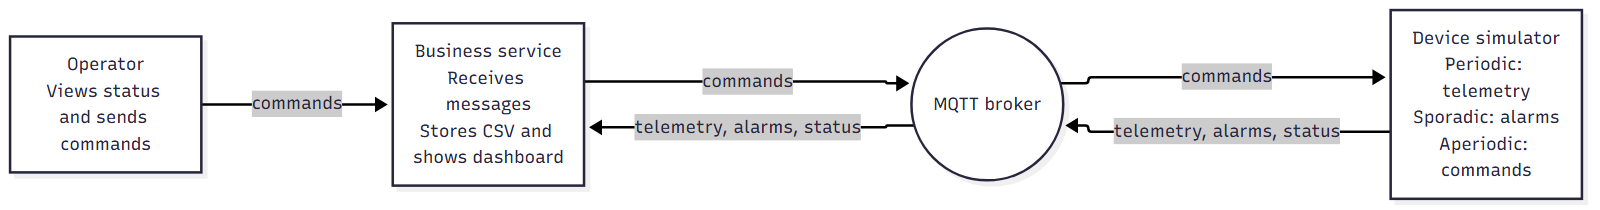
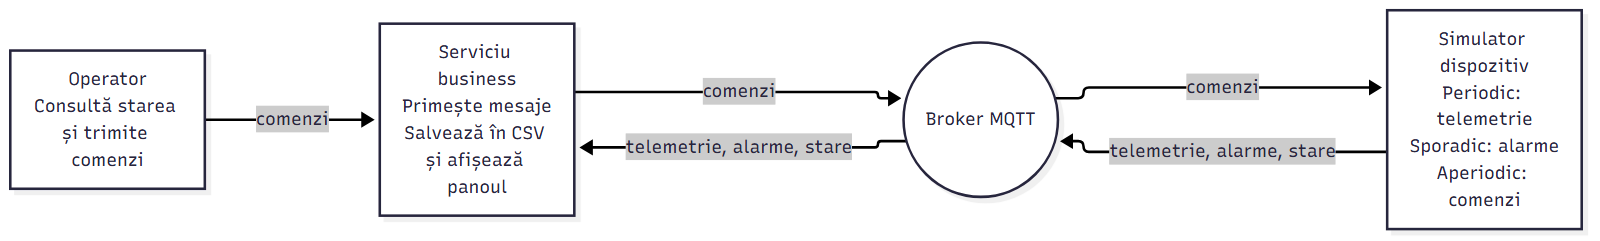
language ro

diff --git a/tema-01-iot-mqtt/start/business-service/src/main/java/ssatr/service/MessageProcessor.java b/tema-01-iot-mqtt/start/business-service/src/main/java/ssatr/service/MessageProcessor.java
@@ -42,7 +42,7 @@ public class MessageProcessor implements Runnable {
                 try {
                     process(message);
                 } catch (IllegalArgumentException e) {
-                    System.out.printf("[invalid %s message] %s%n", kind, message);
+                    System.out.printf("[mesaj %s invalid] %s%n", kind, message);
                 }
             } catch (InterruptedException e) {
                 Thread.currentThread().interrupt();
@@ -79,7 +79,7 @@ public class MessageProcessor implements Runnable {
         parseNumber(fields[2], "temperature");
         parseNumber(fields[3], "threshold");
         dashboard.updateAlarm(deviceId, timestamp);
-        System.out.printf("[ALARM] %s%n", message);
+        System.out.printf("[ALARMĂ] %s%n", message);
     }
 
     private void processStatus(String[] fields, String deviceId, String message) {
@@ -89,7 +89,7 @@ public class MessageProcessor implements Runnable {
             throw new IllegalArgumentException("Missing status text");
         }
         dashboard.updateStatus(deviceId, timestamp);
-        System.out.printf("[STATUS] %s%n", message);
+        System.out.printf("[STARE] %s%n", message);
     }
 
     private static void requireFieldCount(String[] fields, int expected) {

diff --git a/tema-01-iot-mqtt/start/business-service/src/main/java/ssatr/service/CommandConsole.java b/tema-01-iot-mqtt/start/business-service/src/main/java/ssatr/service/CommandConsole.java
@@ -55,18 +55,18 @@ public class CommandConsole implements Runnable {
         //   Afișați un mesaj de eroare dacă linia nu are formatul corect.
         Matcher matcher = DEVICE_COMMAND_PATTERN.matcher(line.trim());
         if (!matcher.matches()) {
-            System.out.println("Invalid command. Use help to see the supported syntax.");
+            System.out.println("Comandă invalidă. Tastați help pentru a vedea comenzile disponibile.");
             return;
         }
 
         String deviceId = matcher.group(1);
         String command = matcher.group(2).replaceAll("\\s+", " ");
         mqtt.publish(Config.commandTopic(deviceId), command);
-        System.out.println("Command sent to " + deviceId + ": " + command);
+        System.out.println("Comandă trimisă către " + deviceId + ": " + command);
     }
 
     private void printHelp() {
-        System.out.println("Commands: show | <deviceId> SET_INTERVAL <ms> | <deviceId> SET_THRESHOLD <value>");
+        System.out.println("Comenzi: show | <deviceId> SET_INTERVAL <ms> | <deviceId> SET_THRESHOLD <valoare>");
         System.out.println("          <deviceId> RESET | <deviceId> STATUS | help | exit");
     }
 }

diff --git a/tema-01-iot-mqtt/start/business-service/src/main/java/ssatr/service/Dashboard.java b/tema-01-iot-mqtt/start/business-service/src/main/java/ssatr/service/Dashboard.java
@@ -39,7 +39,7 @@ public class Dashboard {
         // TODO 5: afișați câte un rând pentru fiecare device, de exemplu:
         //   DEVICE     TEMP    ULTIMUL MESAJ   ALARME
         //   device-1   23.41   acum 1 s        2
-        System.out.printf("%-16s %-10s %-18s %s%n", "DEVICE", "TEMP", "LATEST MESSAGE", "ALARMS");
+        System.out.printf("%-16s %-10s %-18s %s%n", "DISPOZITIV", "TEMP.", "ULTIMUL MESAJ", "ALARME");
         long now = System.currentTimeMillis();
         for (Map.Entry<String, DeviceState> entry : devices.entrySet()) {
             DeviceState state = entry.getValue();
@@ -47,8 +47,8 @@ public class Dashboard {
                     ? "--"
                     : String.format(Locale.US, "%.2f", state.temperature);
             long ageSeconds = Math.max(0, (now - state.lastMessageTimestamp) / 1000);
-                System.out.printf("%-16s %-10s %-18s %d%n",
-                    entry.getKey(), temperature, ageSeconds + " s ago", state.alarmCount);
+            System.out.printf("%-16s %-10s %-18s %d%n",
+                    entry.getKey(), temperature, ageSeconds + " s în urmă", state.alarmCount);
         }
     }
 

diff --git a/tema-01-iot-mqtt/start/business-service/src/main/java/ssatr/service/MqttConnection.java b/tema-01-iot-mqtt/start/business-service/src/main/java/ssatr/service/MqttConnection.java
@@ -30,7 +30,7 @@ public class MqttConnection {
         options.setCleanSession(true);
         options.setAutomaticReconnect(true);
         client.connect(options);
-        System.out.println("Connected to " + Config.BROKER);
+        System.out.println("Conectat la " + Config.BROKER);
     }
 
     /** Publică un mesaj text (QoS 1). */
@@ -40,7 +40,7 @@ public class MqttConnection {
             message.setQos(1);
             client.publish(topic, message);
         } catch (MqttException e) {
-            System.out.println("Failed to publish to " + topic + ": " + e.getMessage());
+            System.out.println("Eroare la publicare pe " + topic + ": " + e.getMessage());
         }
     }
 
@@ -50,7 +50,7 @@ public class MqttConnection {
      */
     public void subscribe(String topicFilter, BlockingQueue<String> inbox) throws MqttException {
         client.subscribe(topicFilter, 1, (topic, message) -> inbox.put(new String(message.getPayload())));
-        System.out.println("Subscribed to " + topicFilter);
+        System.out.println("Abonat la " + topicFilter);
     }
 
     public void disconnect() throws MqttException {

diff --git a/tema-01-iot-mqtt/start/device-simulator/src/main/java/ssatr/device/MqttConnection.java b/tema-01-iot-mqtt/start/device-simulator/src/main/java/ssatr/device/MqttConnection.java
@@ -30,7 +30,7 @@ public class MqttConnection {
         options.setCleanSession(true);
         options.setAutomaticReconnect(true);
         client.connect(options);
-        System.out.println("Connected to " + Config.BROKER);
+        System.out.println("Conectat la " + Config.BROKER);
     }
 
     /** Publică un mesaj text (QoS 1). */
@@ -40,7 +40,7 @@ public class MqttConnection {
             message.setQos(1);
             client.publish(topic, message);
         } catch (MqttException e) {
-            System.out.println("Failed to publish to " + topic + ": " + e.getMessage());
+            System.out.println("Eroare la publicare pe " + topic + ": " + e.getMessage());
         }
     }
 
@@ -50,7 +50,7 @@ public class MqttConnection {
      */
     public void subscribe(String topicFilter, BlockingQueue<String> inbox) throws MqttException {
         client.subscribe(topicFilter, 1, (topic, message) -> inbox.put(new String(message.getPayload())));
-        System.out.println("Subscribed to " + topicFilter);
+        System.out.println("Abonat la " + topicFilter);
     }
 
     public void disconnect() throws MqttException {

diff --git a/tema-01-iot-mqtt/start/device-simulator/src/main/java/ssatr/device/SporadicAlarmTask.java b/tema-01-iot-mqtt/start/device-simulator/src/main/java/ssatr/device/SporadicAlarmTask.java
@@ -49,7 +49,7 @@ public class SporadicAlarmTask implements Runnable {
 
                 if (lastReleaseNanos != Long.MIN_VALUE
                         && arrivalNanos - lastReleaseNanos < minimumInterarrivalNanos) {
-                    System.out.printf("[alarm] REJECTED: interval below %d ms%n", MIN_INTERARRIVAL_MS);
+                    System.out.printf("[alarmă] RESPINSĂ: interval sub %d ms%n", MIN_INTERARRIVAL_MS);
                     continue;
                 }
 

diff --git a/tema-01-iot-mqtt/start/business-service/src/main/java/ssatr/service/CsvStorage.java b/tema-01-iot-mqtt/start/business-service/src/main/java/ssatr/service/CsvStorage.java
@@ -46,7 +46,7 @@ public class CsvStorage {
 
             Files.writeString(file, message + "\n", StandardOpenOption.CREATE, StandardOpenOption.APPEND);
         } catch (IOException e) {
-            System.out.println("Failed to write to " + file + ": " + e.getMessage());
+            System.out.println("Eroare la scrierea în " + file + ": " + e.getMessage());
         }
     }
 

diff --git a/tema-01-iot-mqtt/start/device-simulator/src/main/java/ssatr/device/DeviceSimulator.java b/tema-01-iot-mqtt/start/device-simulator/src/main/java/ssatr/device/DeviceSimulator.java
@@ -21,7 +21,7 @@ public class DeviceSimulator {
 
     public static void main(String[] args) throws Exception {
         String deviceId = args.length > 0 ? args[0] : "device-1";
-        System.out.println("Starting simulator for " + deviceId);
+        System.out.println("Pornire simulator pentru " + deviceId);
 
         TemperatureSensor sensor = new TemperatureSensor();
 
